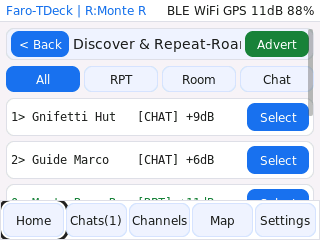
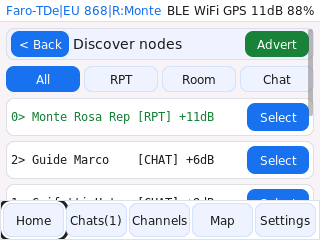
Faro 0.10.0
Version bump for radio regions, data kept on flash, key import/export off
and the ThinkNode M9 keypad. No release files yet: FLASHING.md and the web
flasher stay on the 0.9.2 binaries. README: screenshots of the radio
region page, the welcome screen, the node scan and the contact path.

Screenshots regenerated with faro-sim from this version.

diff --git a/README.md b/README.md
@@ -8,7 +8,8 @@ companion firmware. It runs on the device next to the normal companion interface
   Faro attaches through upstream's `platformio.local.ini` hook and the `AbstractUITask` listener; it adds no
   companion opcodes.
 - **Licence:** Apache-2.0 (see `LICENSE`, `NOTICE`, `LICENSES/`, `docs/THIRD_PARTY.md`).
-- **Status:** 0.9.2, pre-1.0. Test it on your own hardware before relying on it.
+- **Status:** 0.10.0, pre-1.0. The latest release binaries are 0.9.2 (see `docs/FLASHING.md`); build from source
+  for 0.10.0. Test it on your own hardware before relying on it.
 
 ## Screenshots
 
@@ -25,6 +26,10 @@ companion firmware. It runs on the device next to the normal companion interface
 | Mesh graph | Diagnostics | Mesh tools | Settings |
 |---|---|---|---|
 | ![Mesh graph](docs/screenshots/diag_graph.png) | ![Diagnostics](docs/screenshots/14_diagnostics.png) | ![Mesh tools](docs/screenshots/diag_mesh.png) | ![Settings](docs/screenshots/13_settings.png) |
+
+| Radio region | Welcome (region) | Node scan | Contact path |
+|---|---|---|---|
+| ![Radio settings with the region button](docs/screenshots/settings_radio.png) | ![Welcome screen with the region choice](docs/screenshots/15_boot_wizard.png) | ![Discover with zero-hop scan answers](docs/screenshots/discover_scan.png) | ![Contact path and trace](docs/screenshots/contact_path.png) |
 
 More in [`docs/screenshots/`](docs/screenshots/).
 

diff --git a/docs/FLASHING.md b/docs/FLASHING.md
@@ -10,6 +10,9 @@ Release files (GitHub release `v0.9.2`):
 
 `<board>` is `tdeck` (T-Deck and T-Deck Plus), `tdeck-max`, `thinknode-m9`, `tbeam-supreme` or `heltec-v3`.
 
+The source is at 0.10.0, which has no release files yet. Radio regions and the data Faro keeps on flash (both
+below) are 0.10.0 features: build it from source (`pio run -e faro_<board>`) to get them.
+
 ## 0. Back up the device first
 
 ```bash
